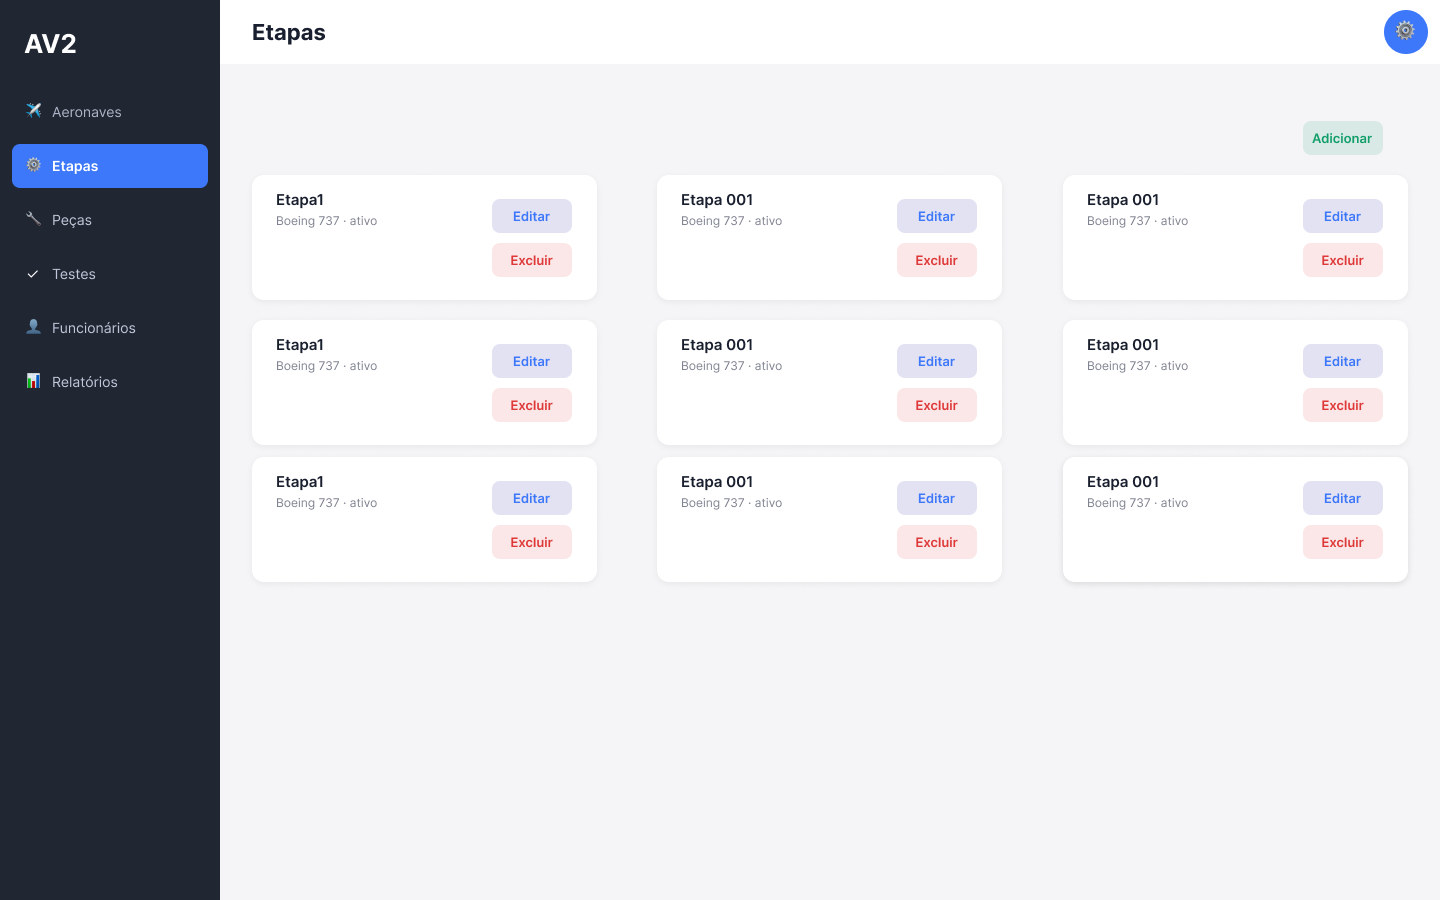
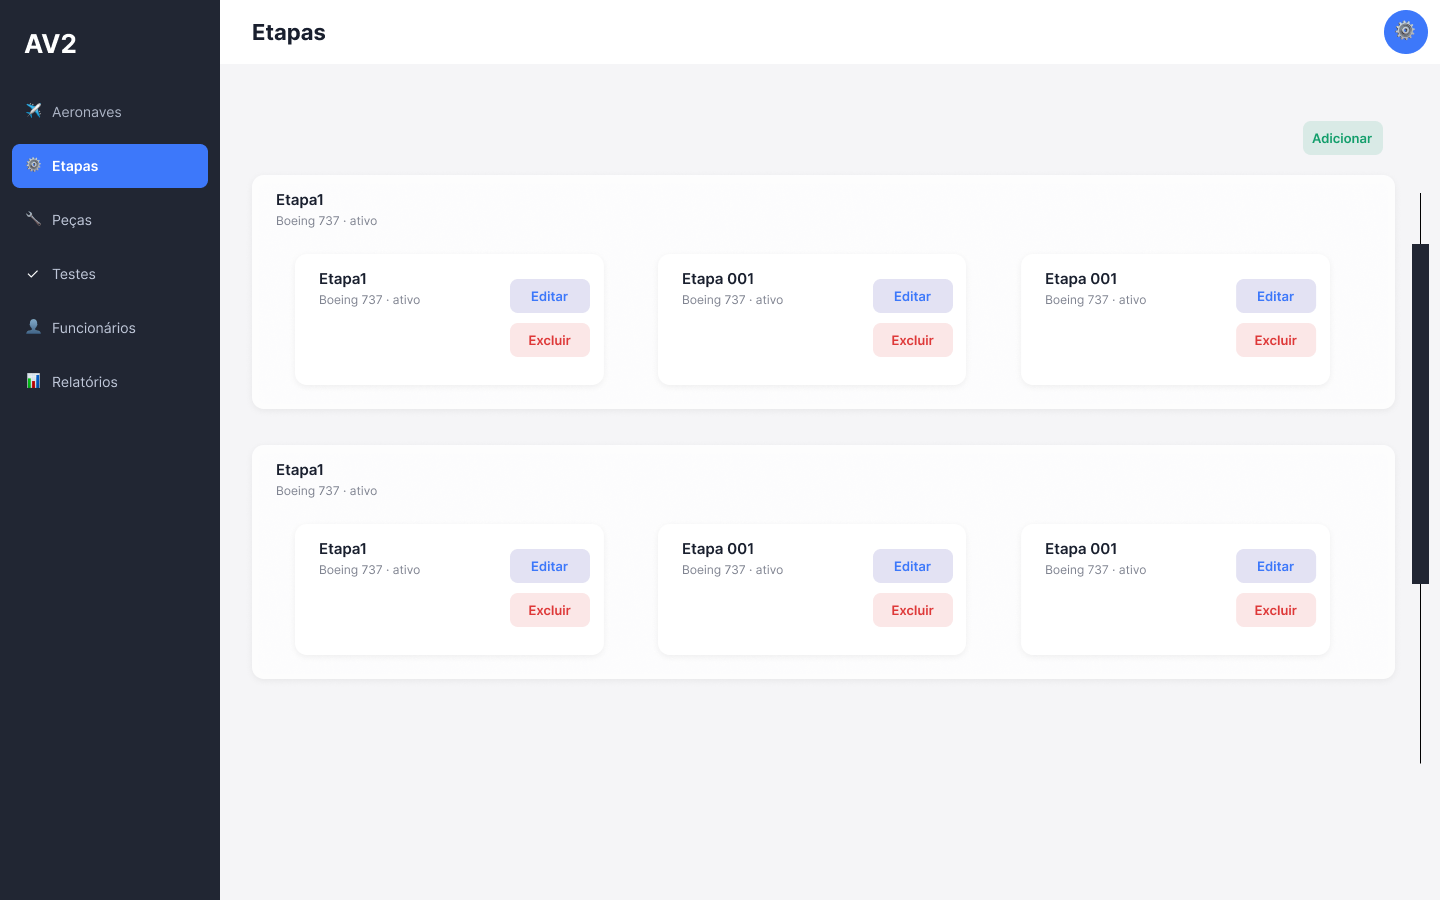
fix: alters etapas page structure

diff --git a/src/pages/EtapasPage.jsx b/src/pages/EtapasPage.jsx
@@ -35,21 +35,52 @@ export default function EtapasPage() {
     setModal(null)
   }
 
+  const groupedByAeronave = Object.entries(
+    items.reduce((acc, item) => {
+      const key = item.aeronave?.trim() || 'Sem aeronave'
+      if (!acc[key]) acc[key] = []
+      acc[key].push(item)
+      return acc
+    }, {})
+  ).sort(([a], [b]) => a.localeCompare(b))
+
+  function getStatusCount(groupItems, status) {
+    return groupItems.filter(item => item.status === status).length
+  }
+
   return (
     <Layout title="Etapas">
       <div className="page-toolbar">
         <button className="btn-add" onClick={openAdd}>Adicionar</button>
       </div>
 
-      <div className="grid-3">
-        {items.map(item => (
-          <ItemCard
-            key={item.id}
-            title={item.nome}
-            subtitle={`${item.aeronave} · ${STATUS_LABEL[item.status]}`}
-            onEdit={() => openEdit(item)}
-            onDelete={() => handleDelete(item.id)}
-          />
+      <div className="etapas-groups">
+        {groupedByAeronave.map(([aeronave, groupItems]) => (
+          <section key={aeronave} className="etapas-group">
+            <header className="etapas-group-header">
+              <div>
+                <h3 className="etapas-group-title">{aeronave}</h3>
+                <p className="etapas-group-subtitle">{groupItems.length} etapa(s)</p>
+              </div>
+              <div className="etapas-statuses">
+                <span className="status-chip">Pendente: {getStatusCount(groupItems, 'PENDENTE')}</span>
+                <span className="status-chip">Andamento: {getStatusCount(groupItems, 'ANDAMENTO')}</span>
+                <span className="status-chip">Concluída: {getStatusCount(groupItems, 'CONCLUIDA')}</span>
+              </div>
+            </header>
+
+            <div className="grid-3">
+              {groupItems.map(item => (
+                <ItemCard
+                  key={item.id}
+                  title={item.nome}
+                  subtitle={`${STATUS_LABEL[item.status]} · Prazo: ${item.prazo}`}
+                  onEdit={() => openEdit(item)}
+                  onDelete={() => handleDelete(item.id)}
+                />
+              ))}
+            </div>
+          </section>
         ))}
       </div>
 

diff --git a/src/pages/UsuarioPage.css b/src/pages/UsuarioPage.css
@@ -28,3 +28,77 @@
   flex-direction: column;
   gap: 16px;
 }
+
+.usuario-relatorios {
+  margin-top: 24px;
+  border-top: 1px solid #e5e7eb;
+  padding-top: 18px;
+  text-align: left;
+}
+
+.usuario-relatorios-header {
+  display: flex;
+  align-items: center;
+  justify-content: space-between;
+  gap: 12px;
+  margin-bottom: 12px;
+}
+
+.usuario-relatorios-header h3 {
+  margin: 0;
+  font-size: 1rem;
+  color: #111827;
+}
+
+.btn-ver-relatorios {
+  text-decoration: none;
+  padding: 6px 12px;
+  border-radius: 8px;
+  border: 1.5px solid #93c5fd;
+  background: #eff6ff;
+  color: #1d4ed8;
+  font-size: 0.82rem;
+  font-weight: 600;
+}
+
+.btn-ver-relatorios:hover {
+  background: #dbeafe;
+}
+
+.usuario-relatorios-lista {
+  display: flex;
+  flex-direction: column;
+  gap: 8px;
+}
+
+.usuario-relatorio-item {
+  background: #f8fafc;
+  border: 1px solid #e5e7eb;
+  border-radius: 10px;
+  padding: 10px 12px;
+  display: flex;
+  flex-direction: column;
+  gap: 2px;
+}
+
+.usuario-relatorio-titulo {
+  font-size: 0.9rem;
+  font-weight: 600;
+  color: #0f172a;
+}
+
+.usuario-relatorio-meta {
+  font-size: 0.78rem;
+  color: #64748b;
+}
+
+@media (max-width: 600px) {
+  .usuario-card {
+    padding: 28px 20px;
+  }
+
+  .usuario-relatorios-header {
+    flex-direction: column;
+    align-items: flex-start;
+  }
+}

diff --git a/src/pages/UsuarioPage.jsx b/src/pages/UsuarioPage.jsx
@@ -1,8 +1,12 @@
 import Layout from '../components/Layout'
+import { Link } from 'react-router-dom'
+import { relatorios } from '../data/mock'
 import './Page.css'
 import './UsuarioPage.css'
 
 export default function UsuarioPage() {
+  const meusRelatorios = relatorios.slice(0, 3)
+
   return (
     <Layout title="Usuário">
       <div className="usuario-card">
@@ -17,6 +21,22 @@ export default function UsuarioPage() {
           <div className="modal-field">
             <label>Senha</label>
             <input type="password" defaultValue="admin123" placeholder="••••••••" />
+          </div>
+        </div>
+
+        <div className="usuario-relatorios">
+          <div className="usuario-relatorios-header">
+            <h3>Meus relatórios</h3>
+            <Link to="/relatorios" className="btn-ver-relatorios">Ver todos</Link>
+          </div>
+
+          <div className="usuario-relatorios-lista">
+            {meusRelatorios.map(relatorio => (
+              <div key={relatorio.id} className="usuario-relatorio-item">
+                <span className="usuario-relatorio-titulo">{relatorio.titulo}</span>
+                <span className="usuario-relatorio-meta">{relatorio.aeronave} · {relatorio.data}</span>
+              </div>
+            ))}
           </div>
         </div>
       </div>

diff --git a/src/pages/Page.css b/src/pages/Page.css
@@ -16,9 +16,66 @@
   gap: 16px;
 }
 
+.etapas-groups {
+  display: flex;
+  flex-direction: column;
+  gap: 18px;
+}
+
+.etapas-group {
+  background: #f8fafc;
+  border: 1px solid #e5e7eb;
+  border-radius: 12px;
+  padding: 14px;
+}
+
+.etapas-group-header {
+  display: flex;
+  justify-content: space-between;
+  align-items: flex-start;
+  gap: 12px;
+  margin-bottom: 12px;
+}
+
+.etapas-group-title {
+  margin: 0;
+  font-size: 1rem;
+  color: #0f172a;
+}
+
+.etapas-group-subtitle {
+  margin: 4px 0 0;
+  font-size: 0.83rem;
+  color: #64748b;
+}
+
+.etapas-statuses {
+  display: flex;
+  flex-wrap: wrap;
+  justify-content: flex-end;
+  gap: 8px;
+}
+
+.status-chip {
+  background: #ffffff;
+  border: 1px solid #e5e7eb;
+  border-radius: 999px;
+  padding: 4px 10px;
+  font-size: 0.78rem;
+  color: #334155;
+}
+
 @media (max-width: 900px) {
   .grid-3 {
     grid-template-columns: repeat(2, 1fr);
+  }
+
+  .etapas-group-header {
+    flex-direction: column;
+  }
+
+  .etapas-statuses {
+    justify-content: flex-start;
   }
 }
 
